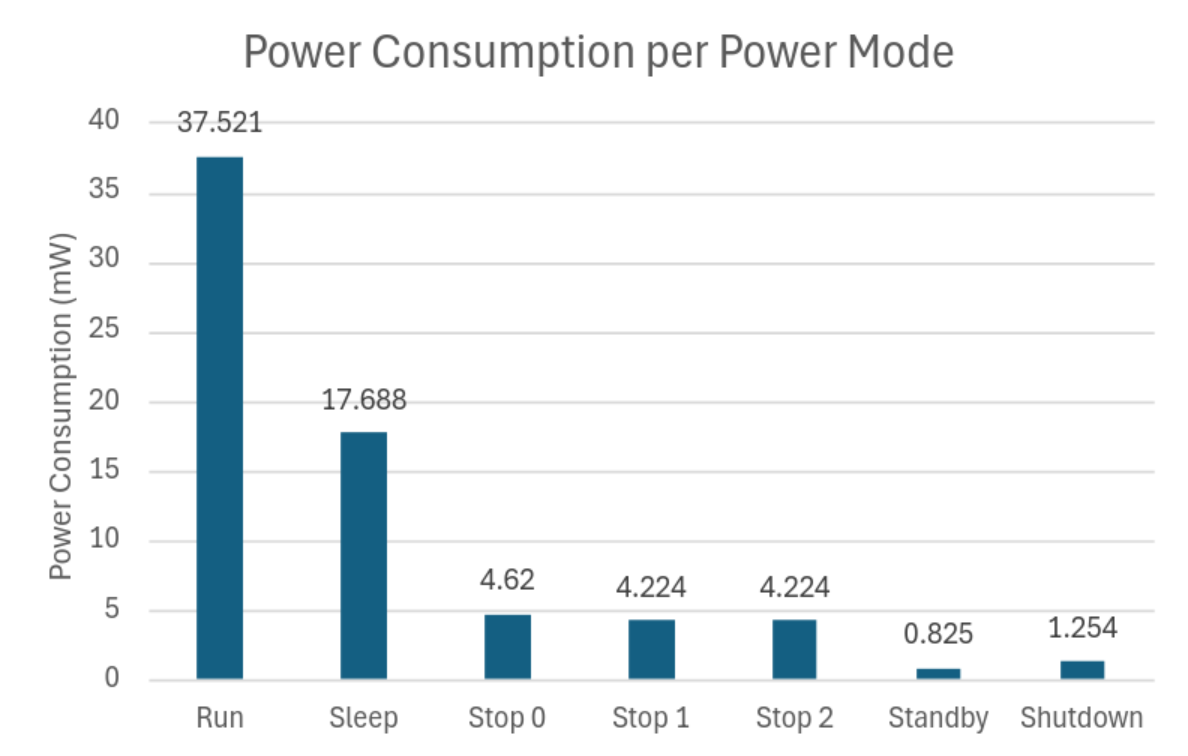
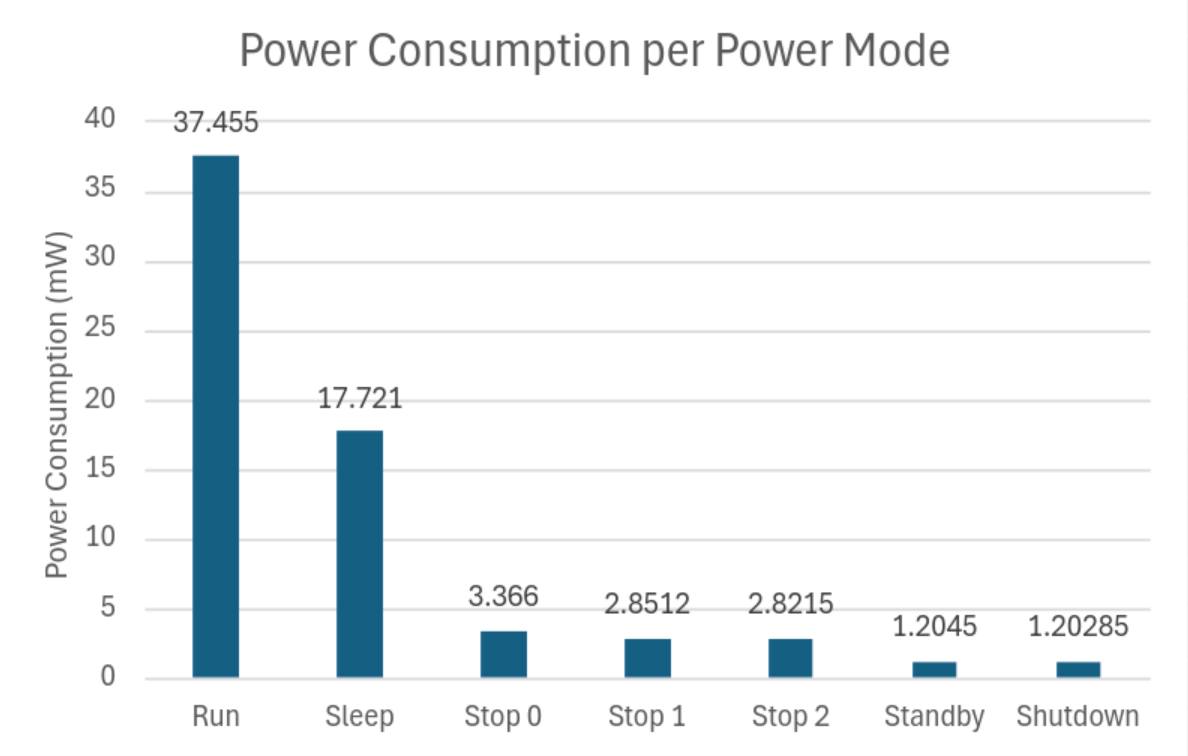
updated power drwaw measurements

diff --git a/ta-expt/software/blink-timer-low-power/README.md b/ta-expt/software/blink-timer-low-power/README.md
@@ -122,14 +122,14 @@ Using these 3 registers we can change the power mode of the MCU
 
 | Mode              |       Entry      | Confirmation     | Wakeup                  | Power Usage |
 |:-----------------:|:----------------:|:----------------:|:-----------------------:|:-----------:|
-| Run               |:heavy_check_mark:|:heavy_check_mark:|:heavy_check_mark: Usart | 11.37 mA |
-| Sleep             |:heavy_check_mark:|:heavy_check_mark:|:heavy_check_mark: Usart | 5.36 mA  |
+| Run               |:heavy_check_mark:|:heavy_check_mark:|:heavy_check_mark: Usart | 11.35 mA |
+| Sleep             |:heavy_check_mark:|:heavy_check_mark:|:heavy_check_mark: Usart | 5.37 mA  |
 | Low-power Run     |       :x:        |        :x:       |         :x:             |:question:|
 | Low-power Sleep   |       :x:        |        :x:       |         :x:             |:question:|
-| Stop 0            |:heavy_check_mark:|:heavy_check_mark:|:heavy_check_mark: GPIO  | 1.40 mA     |
-| Stop 1            |:heavy_check_mark:|:heavy_check_mark:|:heavy_check_mark: GPIO  | 1.28 mA     |
-| Stop 2            |:heavy_check_mark:|:heavy_check_mark:|:heavy_check_mark: GPIO  | 1.28 mA     |
-| Standby           |:heavy_check_mark:|:heavy_check_mark:|     :x: Problems        | 0.25 mA    |
-| Shutdown          |:heavy_check_mark:|:heavy_check_mark:|     :x: Problems        | 0.38 mA     |
+| Stop 0            |:heavy_check_mark:|:heavy_check_mark:|:heavy_check_mark: GPIO  | 1.02 mA     |
+| Stop 1            |:heavy_check_mark:|:heavy_check_mark:|:heavy_check_mark: GPIO  | 0.864 mA     |
+| Stop 2            |:heavy_check_mark:|:heavy_check_mark:|:heavy_check_mark: GPIO  | 0.855 mA     |
+| Standby           |:heavy_check_mark:|:heavy_check_mark:|:heavy_check_mark: WKUP  | 0.365 mA    |
+| Shutdown          |:heavy_check_mark:|:heavy_check_mark:|:heavy_check_mark: WKUP  | 0.364 mA     |
 
 ![Power Consmption bar Chart!](./image.png)
